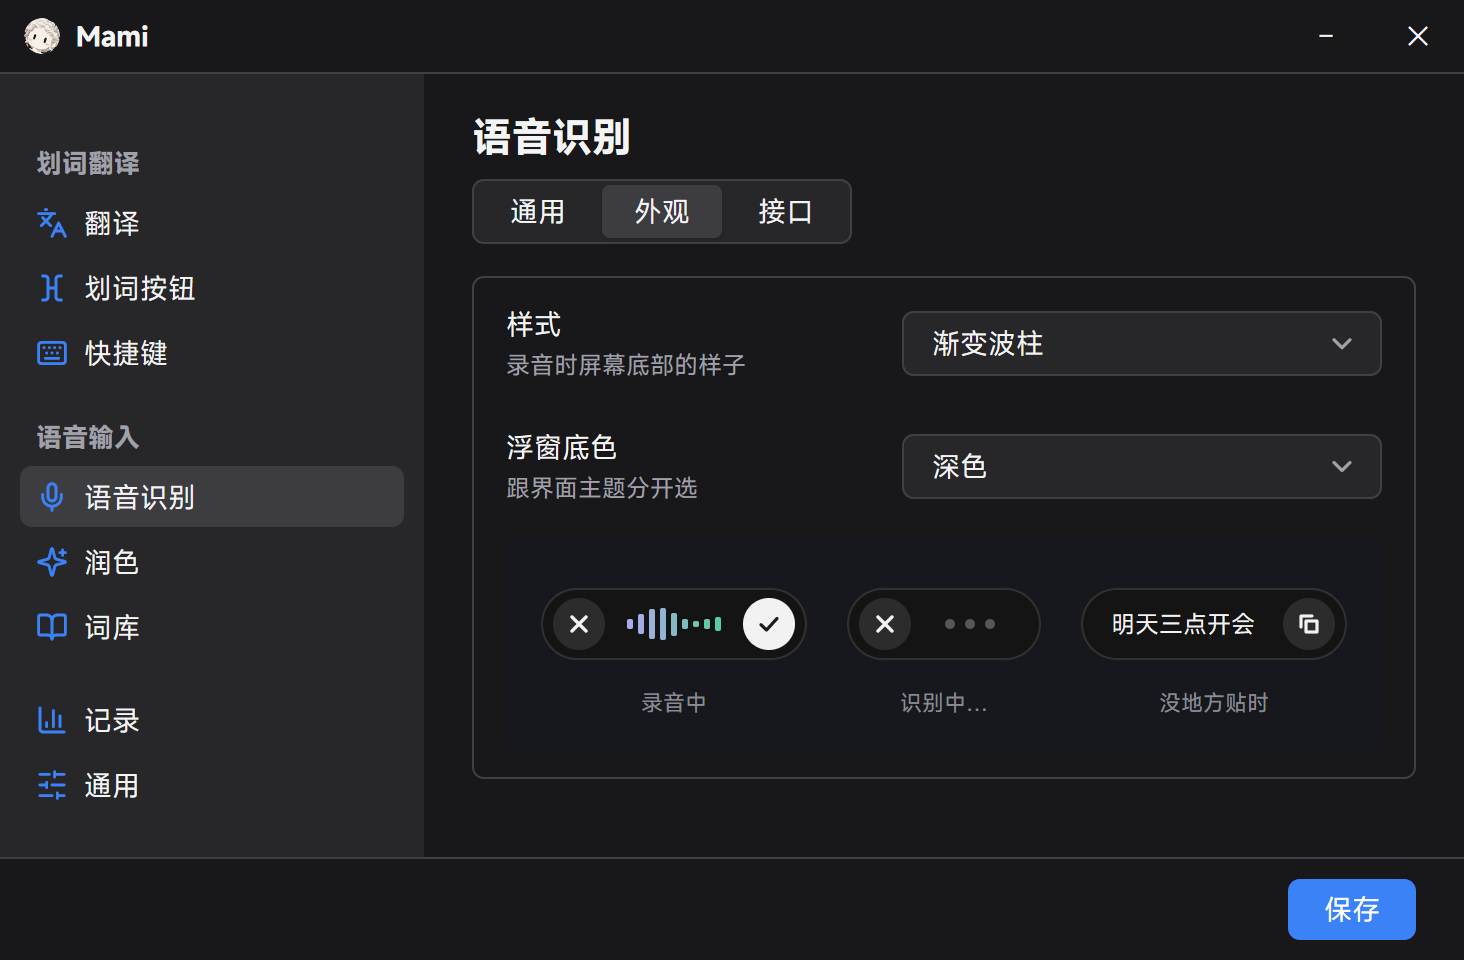
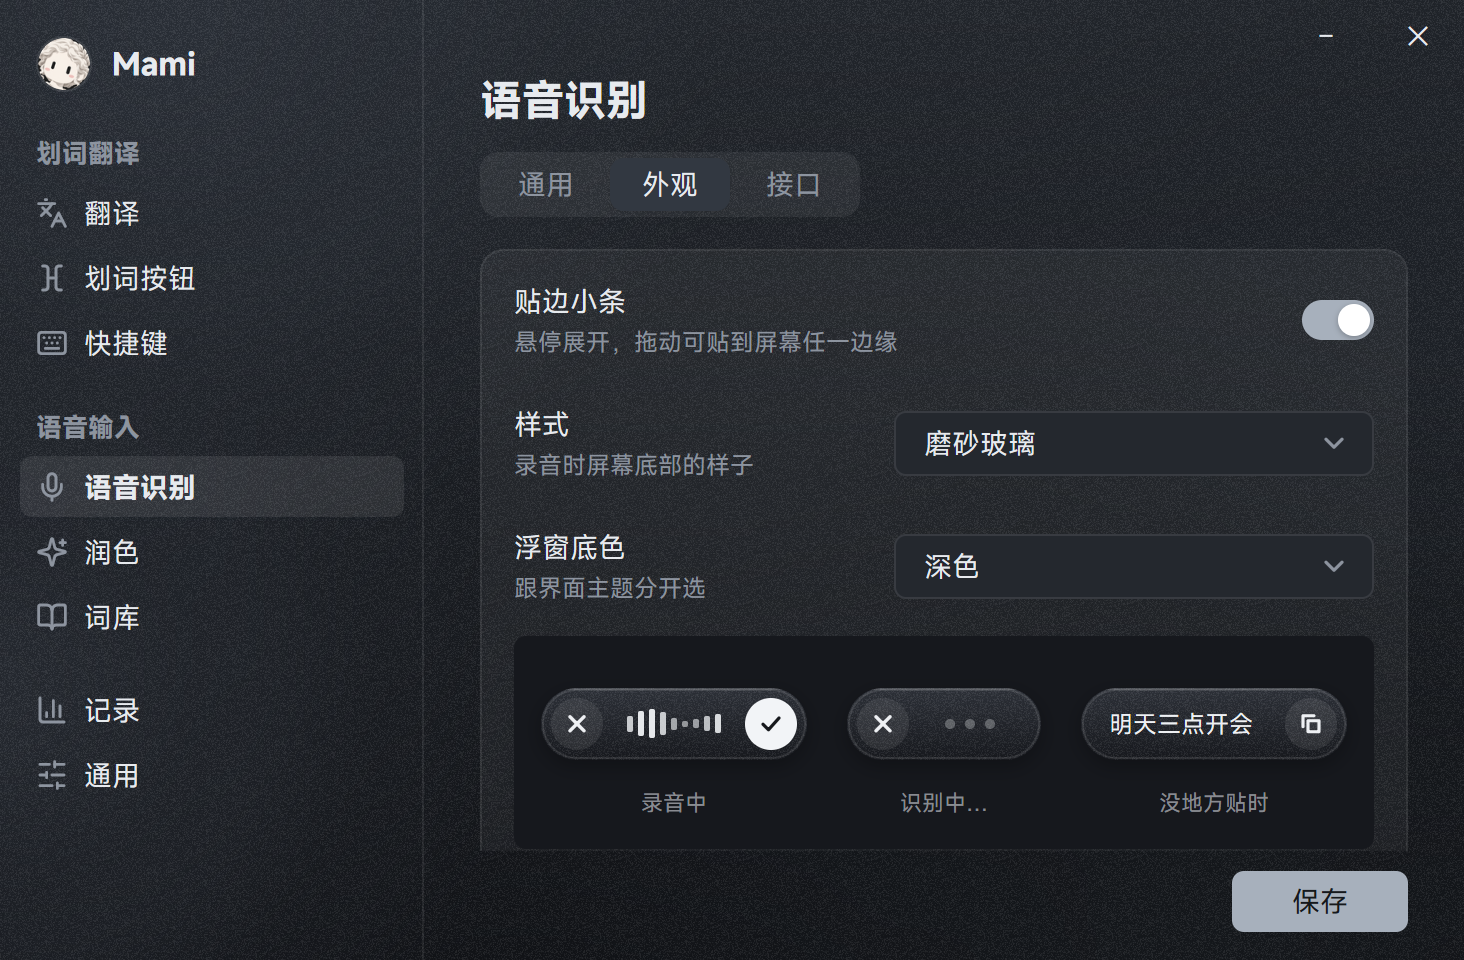
docs: refresh screenshots for the mist theme and frosted glass pill
TestSnapDocs now renders the voice page with the glass pill, its tone following the page (light pill on the light shot, dark on the dark one).

diff --git a/internal/app/settings_test.go b/internal/app/settings_test.go
@@ -282,7 +282,10 @@ func TestSnapDocs(t *testing.T) {
 		a3 := &App{avatar: loadAvatar(), learn: newLearner(filepath.Join(t.TempDir(), "learned.json"))}
 		a3.learn.add([]learnedWord{{Right: "Claude", Manual: true}, {Right: "Mami", Manual: true}, {Right: "DeepSeek", Manual: true}, {Right: "MyGo", Manual: true}, {Right: "Remotion", Manual: true}})
 		a3.learn.add([]learnedWord{{Wrong: "张伟", Right: "章炜"}, {Wrong: "张伟", Right: "章炜"}, {Wrong: "扣持", Right: "蔻驰"}, {Wrong: "阶越", Right: "阶跃"}, {Wrong: "阶越", Right: "阶跃"}})
-		cfg.VoiceStyle = "bars"
+		cfg.VoiceStyle, cfg.VoiceTone = "glass", "light" // 截图里展示磨砂玻璃胶囊，深浅跟着页面
+		if d.dark {
+			cfg.VoiceTone = "dark"
+		}
 		a3.set = settingsState{draft: cfg, page: pageVoice, voiceTab: 1}
 		tt = ui.NewTester(a3.settingsView, settingsW, settingsH)
 		tt.SetDark(d.dark)
